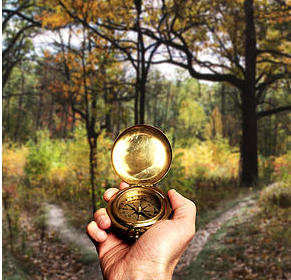
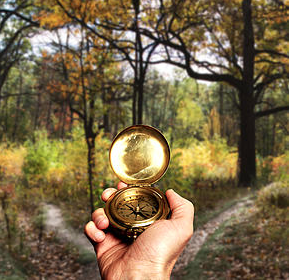
formatted stolen photos

diff --git a/index.html b/index.html
@@ -60,7 +60,7 @@
 		
 		    <!-- Image Caption 3 -->  
 		    <div id="box-3" class="box">  
-		        <img id="image-3" src="img/underwater.png" alt="underwater diver holding a light at underwater plant">  
+		        <img id="image-3" src="img/water.png" alt="underwater diver holding a light at underwater plant">  
 		        <span id="caption-3" class="caption fade-caption">  
 				<h2>Psychological Research</h2>
 				<p>Effective health campaigns are based on profound insights into the root causes of patient and client behavior.</p>

diff --git a/css/styles.css b/css/styles.css
@@ -143,12 +143,12 @@ header {
 
 .PhotoGal .box {  
     cursor: pointer;  
-    height: 295px;      
+    height: 280px;      
     float: left;  
     margin: 15px;  
     position: relative;  
     overflow: hidden;  
-    width: 295px;  
+    width: 285px;  
     -webkit-box-shadow: 2px 2px 2px 2px #ccc;  
     -moz-box-shadow: 2px 2px 2px 2px #ccc;  
     box-shadow: 1px 1px 5px 1px black
